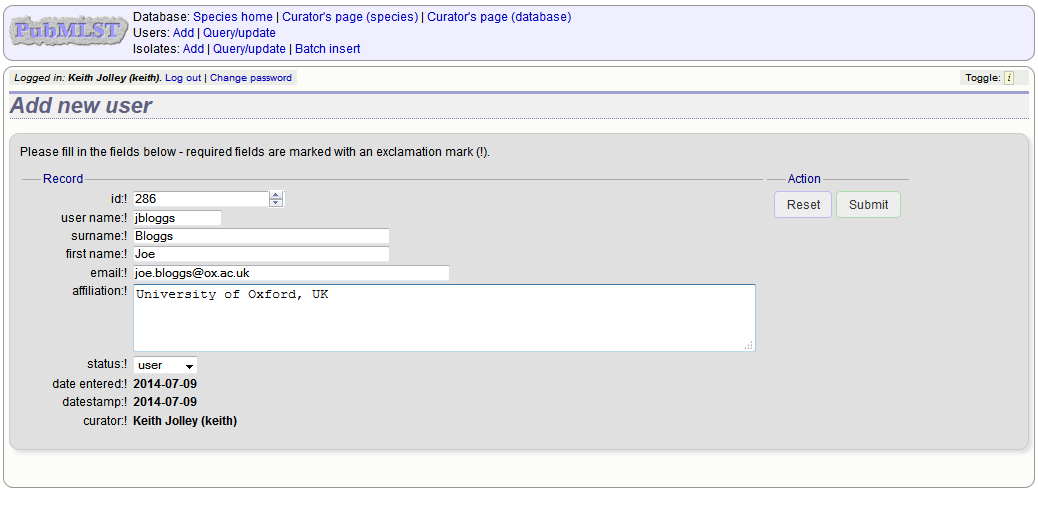
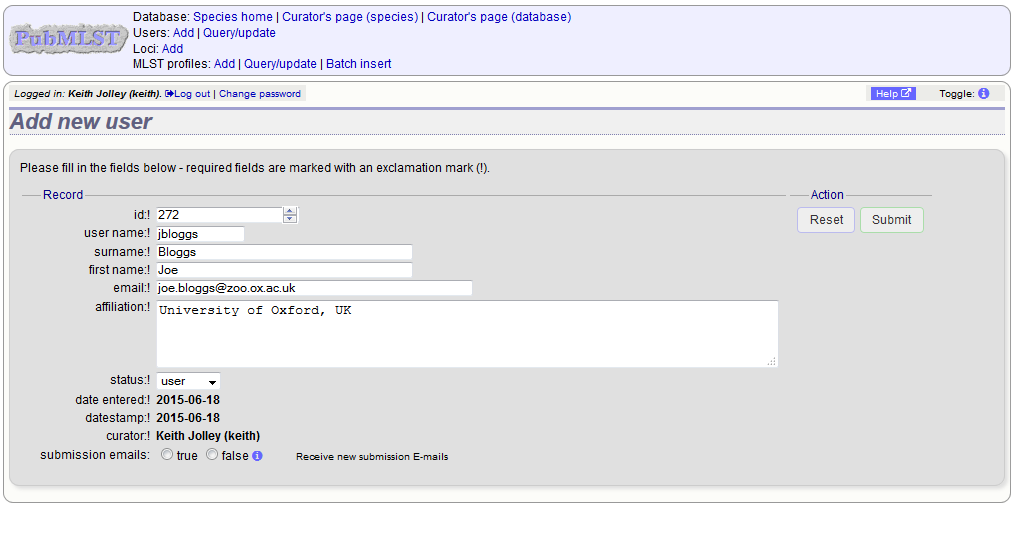
Set up submission system.

diff --git a/curator_guide.rst b/curator_guide.rst
@@ -2,7 +2,8 @@
 Curator's guide
 ###############
 
-Please note that links displayed within the curation interface will vary depending on database contents and the permissions of the curator.
+Please note that links displayed within the curation interface will vary 
+depending on database contents and the permissions of the curator.
 
 .. index::
    single: users; adding
@@ -10,7 +11,9 @@ Please note that links displayed within the curation interface will vary dependi
 *************************
 Adding new sender details
 *************************
-All records within the databases are associated with a sender.  Whenever somebody new submits data, they should be added to the users table so that their name appears in the dropdown lists on the data upload forms.
+All records within the databases are associated with a sender.  Whenever
+somebody new submits data, they should be added to the users table so that 
+their name appears in the dropdown lists on the data upload forms.
 
 To add a user, click the add users (+) link on the curator's contents page.
 
@@ -20,7 +23,13 @@ Enter the user's details in to the form.
 
 .. image:: /images/curation/add_users2.png 
 
-Normally the status should be set as 'user'.  Only admins and curators with special permissions can create users with a status of curator or admin.
+Normally the status should be set as 'user'.  Only admins and curators with
+special permissions can create users with a status of curator or admin.
+
+If the submission system is in operation there will be an option at the bottom
+called 'submission_emails'.  This is to enable users with a status of 'curator'
+or 'admin' to receive E-mails on receipt of new submissions.  It is not 
+relevant for users with a status of 'user' or 'submitter'.
 
 .. index::
    single: allele sequences; adding

diff --git a/installation.rst b/installation.rst
@@ -194,7 +194,38 @@ To run plugins that require a long time to complete their analyses, an offline j
 
     sudo touch /var/log/bigsdb_jobs.log
     sudo chown bigsdb /var/log/bigsdb_jobs.log
+    
+********************************
+Setting up the submission system
+********************************
+The submission system allows users to submit new data to the database for
+curation.  Submissions are placed in a queue for a curator to upload.
+All communication between submitters and curators can occur via the submission
+system.
 
+1.  Create a writable submissions directory in the root of the web site called
+    submissions, i.e. accessible from http://your_website/submissions.  This is
+    used for file uploads.  The directory should be writable by the Apache web
+    daemon (user 'www-data' on Debian/Ubuntu systems).The actual directory can
+    be outside of the web root and made accessible using a symlink, e.g. the 
+    default location is /var/submissions symlinked to /var/www/submissions 
+    (assuming your web site is located in /var/www), e.g. ::
+   
+      sudo touch /var/submissions
+      sudo chown www-data:www-data /var/submissions
+      sudo ln -s /var/submissions /var/www
+     
+2.  Set the submission_dir location in bigsdb.conf.
+ 
+3.  Make sure the curate_script and query_script values are set in bigsdb.conf.
+    These point to the web-accessible location of the web scripts and are
+    required to allow curators to be directed between the web interfaces as
+    needed.
+    
+4.  Set submissions="yes" in the system tag of the 
+    :ref:`database config.xml file<xml>` of each database for which submissions
+    should be enabled. 
+   
 .. _delete-temp-files: 
 
 ***********************************

diff --git a/dbase_setup.rst b/dbase_setup.rst
@@ -88,6 +88,8 @@ database):
 * curate_footer.html - HTML markup that is inserted at the bottom of all
   curator's interface pages.
 
+.. _xml:
+
 ***********************************************
 XML configuration attributes used in config.xml
 ***********************************************
